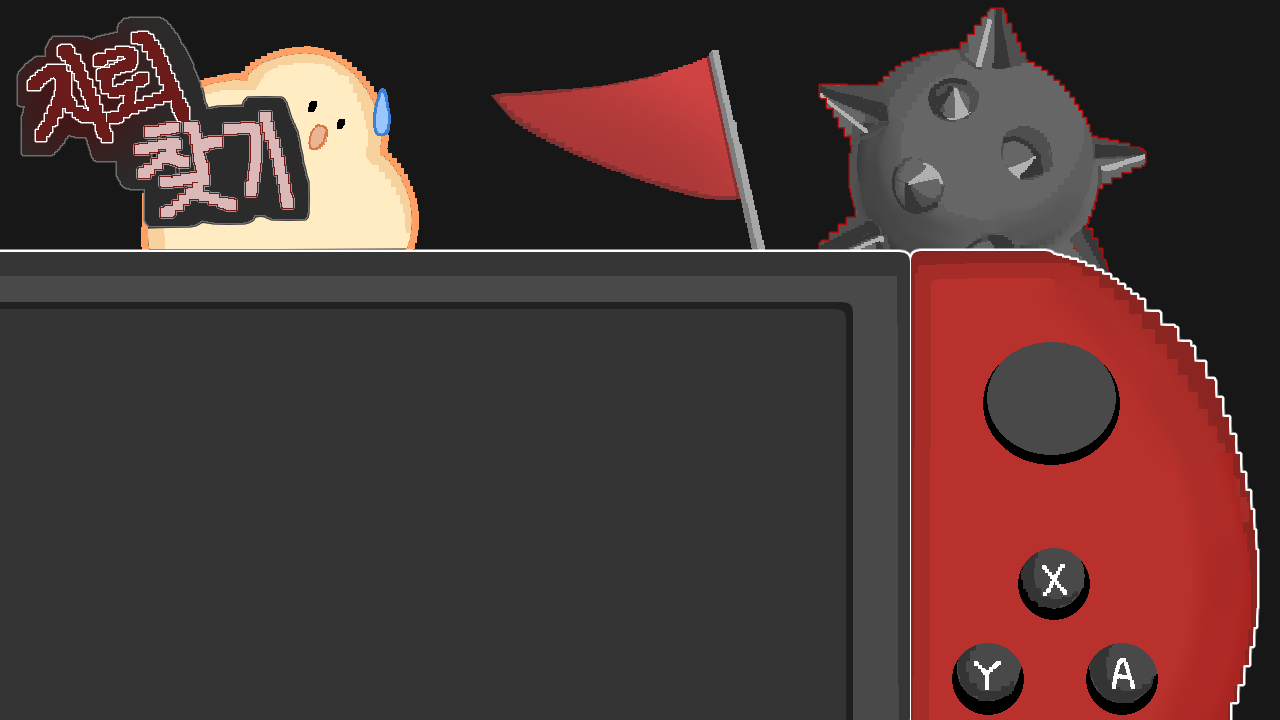
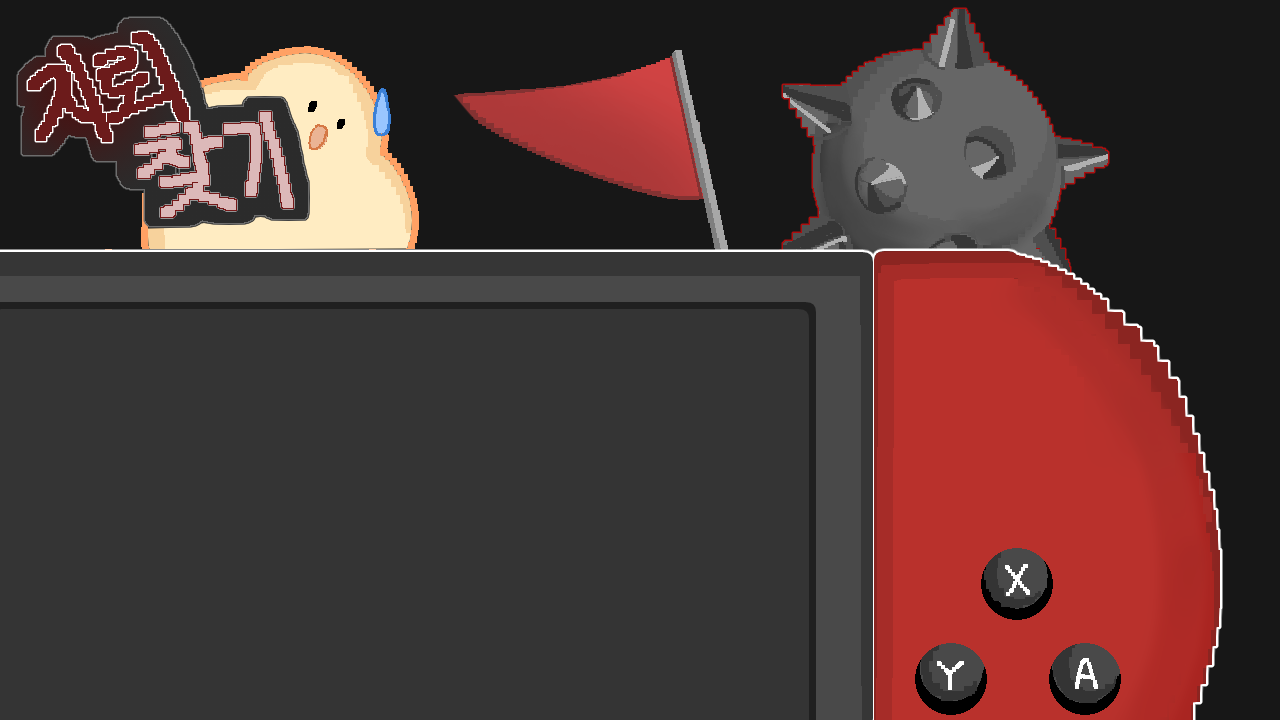
지뢰 찾기 - 배경 이미지 추가

Changed region(s): [[0.3438, 0.0, 1.0, 1.0], [0.75, 0.7639, 0.875, 0.8556]]

diff --git a/지뢰찾기/지뢰찾기.cpp b/지뢰찾기/지뢰찾기.cpp
@@ -151,7 +151,14 @@ void mouseCallback(ObjectID object, int x, int y, MouseAction action) {
 				showMessage("game successful");
 		}
 		else {
-			flagButton(x, y);
+			if (state[y][x] == OPENED) {
+				if (openButton(x, y) == false) {
+					showMessage("game failed");
+				}
+				else if (checkEnd())
+					showMessage("game successful");
+			}
+			else flagButton(x, y);
 		}
 	}
 }
@@ -185,13 +192,13 @@ int main() {
 	setMouseCallback(mouseCallback);
 	setKeyboardCallback(keyboardCallback);
 
-	scene = createScene("지뢰찾기");	
+	scene = createScene("지뢰찾기", "Images/background.png");
 
 	for (int y = 0; y < ROW; ++y)
 		for (int x = 0; x < COLUMN; ++x)	
-			board[y][x] = createObject("Images/button.png", scene, x * BUTTON_WIDTH, y * BUTTON_HEIGHT);
+			board[y][x] = createObject("Images/button.png", scene, 5 + x * BUTTON_WIDTH, 5 + y * BUTTON_HEIGHT);
 
-	start = createObject("Images/start.png", scene, 1000, 300);
+	start = createObject("Images/restart.png", scene, 950, 250);
 
 	initGame();
 
